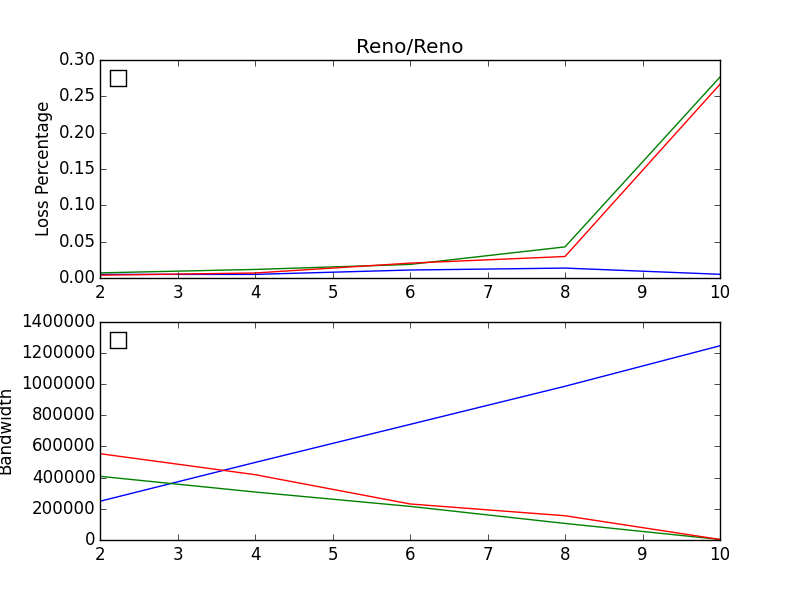
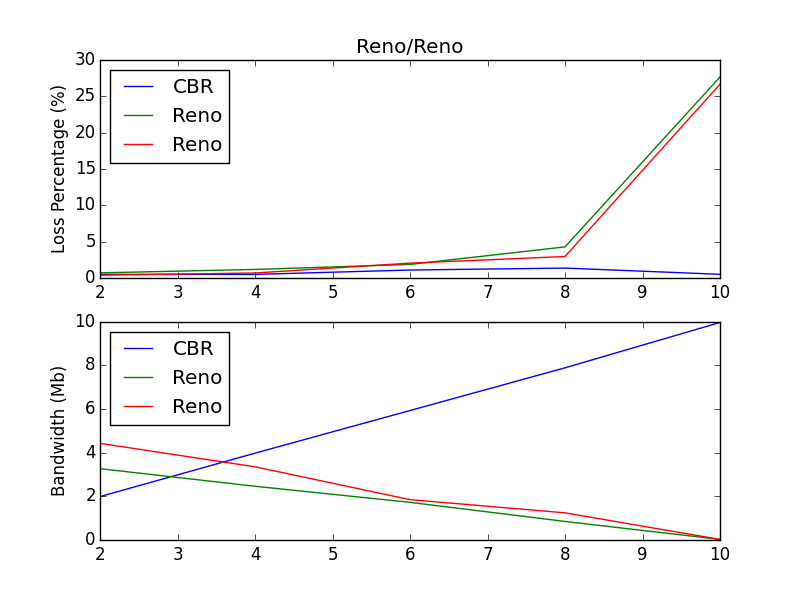
Plots for 2 flows

diff --git a/part1/NRxR/parse.py b/part1/NRxR/parse.py
@@ -1,10 +1,7 @@
 import matplotlib.pyplot as plt
 
-def parseBandwidth(filename,time=10, numflows=3):
+def parseBandwidth(filename,time=10):
   bws = [0.0,0.0,0.0]
-  bws = []
-  for i in range(0, numflows):
-    bws.append(0.0)
   with open(filename) as f:
     lines = f.readlines()
   for line in lines:
@@ -17,24 +14,17 @@ def parseBandwidth(filename,time=10, numflows=3):
     protocol = words[8]
     size = int(words[10])
     flow = int(words[12])
-    if source == 1 and dest == 2 and event == "-":
+    if source == 1 and dest == 2 and flow == 1 and event == "-":
       bws[flow] += size
-#    if source == 1 and dest == 2 and flow == 1 and event == "-":
-#      bws[flow] += size
-#    if source == 1 and dest == 2 and flow == 2 and event == "-":
-#      bws[flow] += size
-#    if source == 1 and dest == 2 and flow == 0 and event == "-":
-#      bws[flow] += size
-  for i in range(0, numflows):
-    bws[i] /= time
-    bws[i] *= 8
-    bws[i] /= 1000000
-  return bws
+    if source == 1 and dest == 2 and flow == 2 and event == "-":
+      bws[flow] += size
+    if source == 1 and dest == 2 and flow == 0 and event == "-":
+      bws[flow] += size
   return [bws[0]/time,bws[1]/time,bws[2]/time]
   return [(bws[0] * 8.0)/(time * 1000000),(bws[1] * 8.0)/(time * 1000000),(bws[2] * 8.0)/(time * 1000000)]
   #return bws
 
-def parsePacketLoss(filename, numflows=3):
+def parsePacketLoss(filename):
   tuples = [[0.0,0.0],[0.0,0.0],[0.0,0.0]]
   with open(filename) as f:
     lines = f.readlines()
@@ -56,6 +46,17 @@ def parsePacketLoss(filename, numflows=3):
       tuples[flow][0] += 1
     if event == "d":
       tuples[flow][1] += 1
+    continue
+    index = 0
+    while index < len(words):
+      flow = -1
+      if words[index] == "-c":
+        index += 1
+        flow = int(words[index])
+        if words[0] == "d":
+          dropped[flow] += 1
+      #  elif words[0] == "-":
+      #index += 1
       
   return [100.0 * tuples[0][1]/tuples[0][0],100.0 * tuples[1][1]/tuples[1][0],100.0 * tuples[2][1]/tuples[2][0]]
   return tuples
@@ -77,7 +78,7 @@ def main():
       loss[i].append(l[i])
     b = parseBandwidth(file)
     for i in range(0, len(b)):
-      bw[i].append(b[i])
+      bw[i].append(((b[i] * 8.0) / 1000000))
   plt.subplot(2,1,1)
   plt.title('NewReno/Reno')
   plt.ylabel('Loss Percentage (%)')
@@ -89,8 +90,8 @@ def main():
   for i in range(0,numflows):
     plt.plot(cbr,bw[i])
   plt.legend(['CBR', 'NewReno', 'Reno'], loc='upper left')
-  plt.show()
-  #plt.savefig('NRxR.png')
+  #plt.show()
+  plt.savefig('NRxR.png')
   return
 
 if __name__=="__main__":

diff --git a/part1/NRxV/parse.py b/part1/NRxV/parse.py
@@ -79,18 +79,18 @@ def main():
     for i in range(0, len(b)):
       bw[i].append(b[i])
   plt.subplot(2,1,1)
-  plt.title('NewReno/Reno')
+  plt.title('NewReno/Vegas')
   plt.ylabel('Loss Percentage (%)')
   for i in range(0,numflows):
     plt.plot(cbr,loss[i])
-  plt.legend(['CBR', 'NewReno', 'Reno'], loc='upper left')
+  plt.legend(['CBR', 'NewReno', 'Vegas'], loc='upper left')
   plt.subplot(2,1,2)
   plt.ylabel('Bandwidth (Mb)')
   for i in range(0,numflows):
     plt.plot(cbr,bw[i])
-  plt.legend(['CBR', 'NewReno', 'Reno'], loc='upper left')
-  plt.show()
-  #plt.savefig('NRxR.png')
+  plt.legend(['CBR', 'NewReno', 'Vegas'], loc='upper left')
+  #plt.show()
+  plt.savefig('NRxV.png')
   return
 
 if __name__=="__main__":

diff --git a/part1/VxV/parse.py b/part1/VxV/parse.py
@@ -79,18 +79,18 @@ def main():
     for i in range(0, len(b)):
       bw[i].append(b[i])
   plt.subplot(2,1,1)
-  plt.title('NewReno/Reno')
+  plt.title('Vegas/Vegas')
   plt.ylabel('Loss Percentage (%)')
   for i in range(0,numflows):
     plt.plot(cbr,loss[i])
-  plt.legend(['CBR', 'NewReno', 'Reno'], loc='upper left')
+  plt.legend(['CBR', 'Vegas', 'Vegas'], loc='upper left')
   plt.subplot(2,1,2)
   plt.ylabel('Bandwidth (Mb)')
   for i in range(0,numflows):
     plt.plot(cbr,bw[i])
-  plt.legend(['CBR', 'NewReno', 'Reno'], loc='upper left')
-  plt.show()
-  #plt.savefig('NRxR.png')
+  plt.legend(['CBR', 'Vegas', 'Vegas'], loc='upper left')
+  #plt.show()
+  plt.savefig('VxV.png')
   return
 
 if __name__=="__main__":

diff --git a/part1/RxR/parse.py b/part1/RxR/parse.py
@@ -79,18 +79,18 @@ def main():
     for i in range(0, len(b)):
       bw[i].append(b[i])
   plt.subplot(2,1,1)
-  plt.title('NewReno/Reno')
+  plt.title('Reno/Reno')
   plt.ylabel('Loss Percentage (%)')
   for i in range(0,numflows):
     plt.plot(cbr,loss[i])
-  plt.legend(['CBR', 'NewReno', 'Reno'], loc='upper left')
+  plt.legend(['CBR', 'Reno', 'Reno'], loc='upper left')
   plt.subplot(2,1,2)
   plt.ylabel('Bandwidth (Mb)')
   for i in range(0,numflows):
     plt.plot(cbr,bw[i])
-  plt.legend(['CBR', 'NewReno', 'Reno'], loc='upper left')
-  plt.show()
-  #plt.savefig('NRxR.png')
+  plt.legend(['CBR', 'Reno', 'Reno'], loc='upper left')
+  #plt.show()
+  plt.savefig('RxR.png')
   return
 
 if __name__=="__main__":
